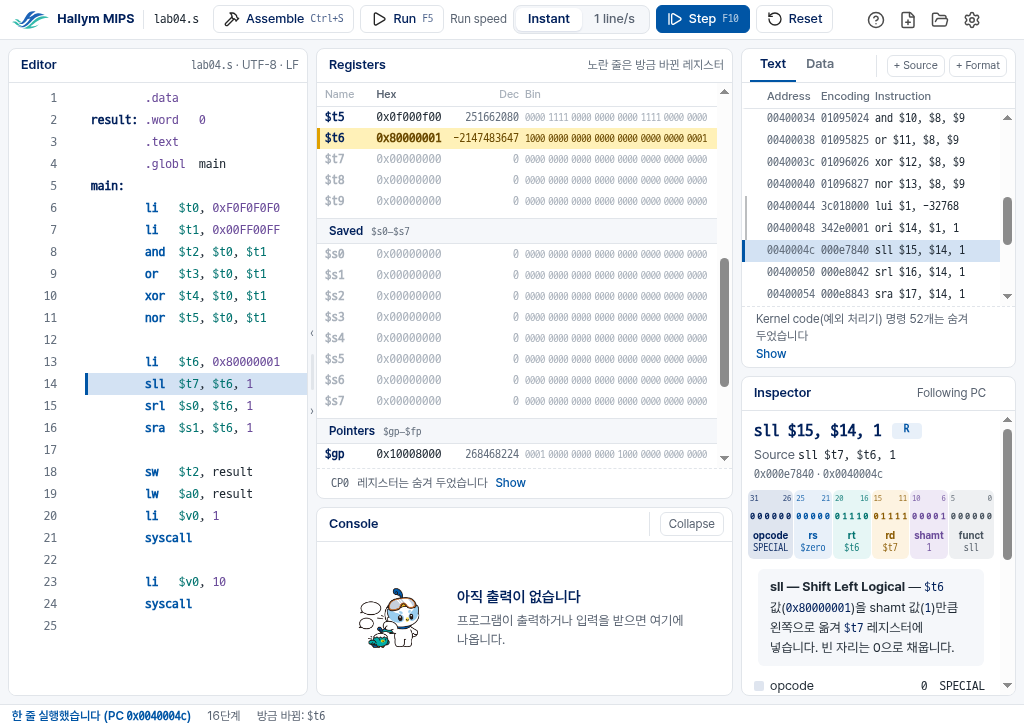
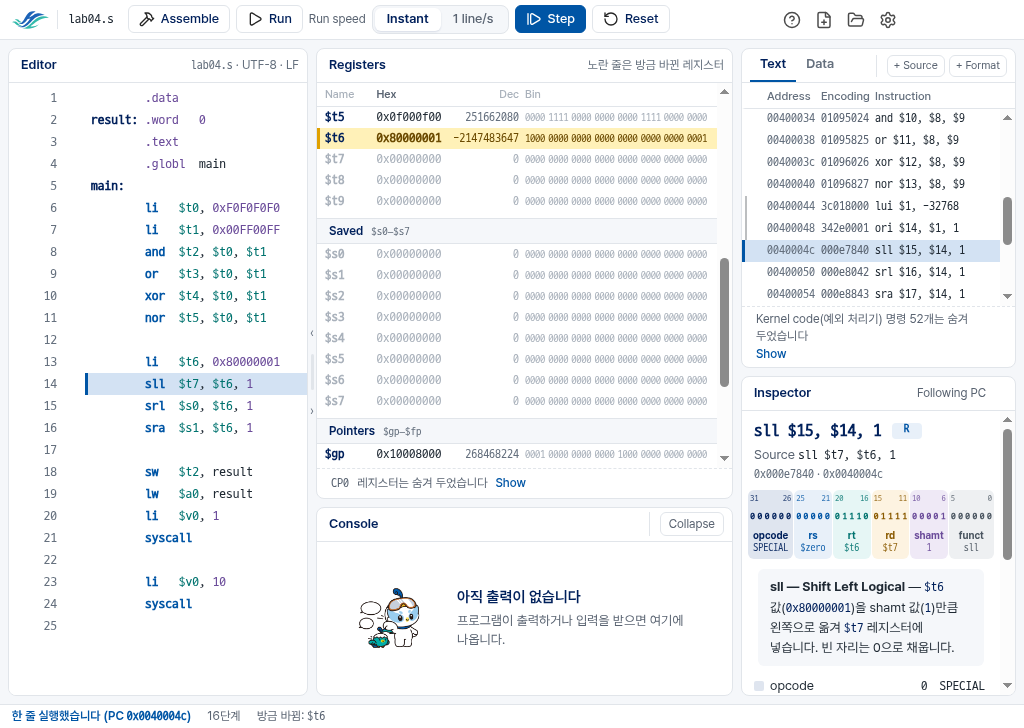
Title bar fits by the caption area, not scrollWidth; Text keeps PC in view when resized
On the Windows runner (1024x768, maximised) the tools slid under the
system's caption buttons: scrollWidth does not count what spills into the
padding kept for them.  fitTitlebar now compares the last item's right
edge with the title-bar area.  A resized Text list (a window maximised, a
fold line wrapping) scrolls the line of PC back into view.  docs/screens
retaken.

Changed region(s): [[0.0625, 0.0, 0.9688, 0.0604]]

diff --git a/tests/e2e/fit.e2e.ts b/tests/e2e/fit.e2e.ts
@@ -51,7 +51,17 @@ for (const size of SIZES) {
         await expect(page.locator('.toolbar .btn .label', { hasText: new RegExp(`^${name}$`) })).toBeVisible();
       }
       expect(await shown(page, '.speedlabel, .speedone .label')).toEqual([expect.stringMatching(/^(Run speed|Speed: Instant)$/)]);
-      expect(await page.locator('.titlebar').evaluate((e) => e.scrollWidth <= e.clientWidth)).toBe(true);
+      // Nothing of ours under the system's caption buttons.
+      expect(await page.evaluate(() => {
+        const o = (navigator as unknown as { windowControlsOverlay: { getTitlebarAreaRect(): DOMRect } }).windowControlsOverlay.getTitlebarAreaRect();
+        return document.querySelector('.titlebar .tools')!.getBoundingClientRect().right <= o.x + o.width + 0.5;
+      })).toBe(true);
+      // The line of PC in Text's view.
+      expect(await page.evaluate(() => {
+        const v = document.querySelector('.text')!.getBoundingClientRect();
+        const pc = document.querySelector('.trow.pc')!.getBoundingClientRect();
+        return pc.top >= v.top - 0.5 && pc.bottom <= v.bottom + 0.5;
+      })).toBe(true);
       // Panel heads hold their names and switches ("+ Source" and all).
       for (const head of ['.regs .phead', '.textpanel .phead', '.insp .phead', '.console .phead']) {
         expect(await page.locator(head).evaluate((e) => e.scrollWidth <= e.clientWidth), head).toBe(true);

diff --git a/src/renderer/app/app.ts b/src/renderer/app/app.ts
@@ -407,11 +407,15 @@ function renderChrome(): void {
 // The title bar gives way one step at a time, as far as it has to: the key
 // hints, the program's name (the logo stays), the buttons' icons (their
 // names stay), then the speed as one button.
+// It fits when its last item ends before the padding kept for the system's
+// caption buttons (scrollWidth does not count what spills into padding).
 const TITLE_STEPS = 4;
+const tools = titlebar.querySelector('.tools') as HTMLElement;
 function fitTitlebar(): void {
+  const end = () => titlebar.getBoundingClientRect().right - parseFloat(getComputedStyle(titlebar).paddingRight);
   for (let level = 0; level <= TITLE_STEPS; level += 1) {
     for (let k = 1; k <= TITLE_STEPS; k += 1) titlebar.classList.toggle(`c${k}`, level >= k);
-    if (titlebar.scrollWidth <= titlebar.clientWidth) return;
+    if (tools.getBoundingClientRect().right <= end() + 0.5) return;
   }
 }
 

diff --git a/tools/mutants.ts b/tools/mutants.ts
@@ -301,6 +301,8 @@ const MUTANTS: Mutant[] = [
   { module: 'window', file: 'src/renderer/app/app.css', what: 'the buttons lose their names before their icons',
     find: '.titlebar.c3 .toolbar .btn img { display: none; }', replace: '.titlebar.c3 .toolbar .btn .label { display: none; }',
     tests: ['tests/e2e/fit.e2e.ts'] },
+  { module: 'window', file: 'src/renderer/app/app.ts', what: 'the title bar never gives way',
+    find: '    if (tools.getBoundingClientRect().right <= end() + 0.5) return;', replace: '    return;', tests: ['tests/e2e/fit.e2e.ts'] },
   { module: 'window', file: 'src/renderer/app/app.ts', what: 'a toolbar on the first screen',
     find: '  toolbar.hidden = !open;', replace: '  toolbar.hidden = false;', tests: ['tests/e2e/fit.e2e.ts'] },
   { module: 'window', file: 'src/renderer/app/app.css', what: 'Korean words broken anywhere',

diff --git a/src/renderer/app/panels/text.ts b/src/renderer/app/panels/text.ts
@@ -77,7 +77,12 @@ export class TextPanel {
     this.data.onToggles = (buttons) => { if (this.tab === 'data') this.setAside(buttons); };
     this.dataView.hidden = true;
     this.root = h('section', { class: 'panel textpanel', 'aria-label': 'Text' }, this.head.root, this.textView, this.dataView);
-    new ResizeObserver(() => { this.fit(); this.renderWindow(); }).observe(this.viewport);
+    // Resized (a window maximised, a fold line wrapping): PC stays in view.
+    new ResizeObserver(() => {
+      this.fit();
+      const i = this.shown.findIndex((x) => x.addr === this.pc);
+      if (i >= 0) this.reveal(i); else this.renderWindow();
+    }).observe(this.viewport);
   }
 
   // The least width Address, Encoding, Format and Instruction take, with
